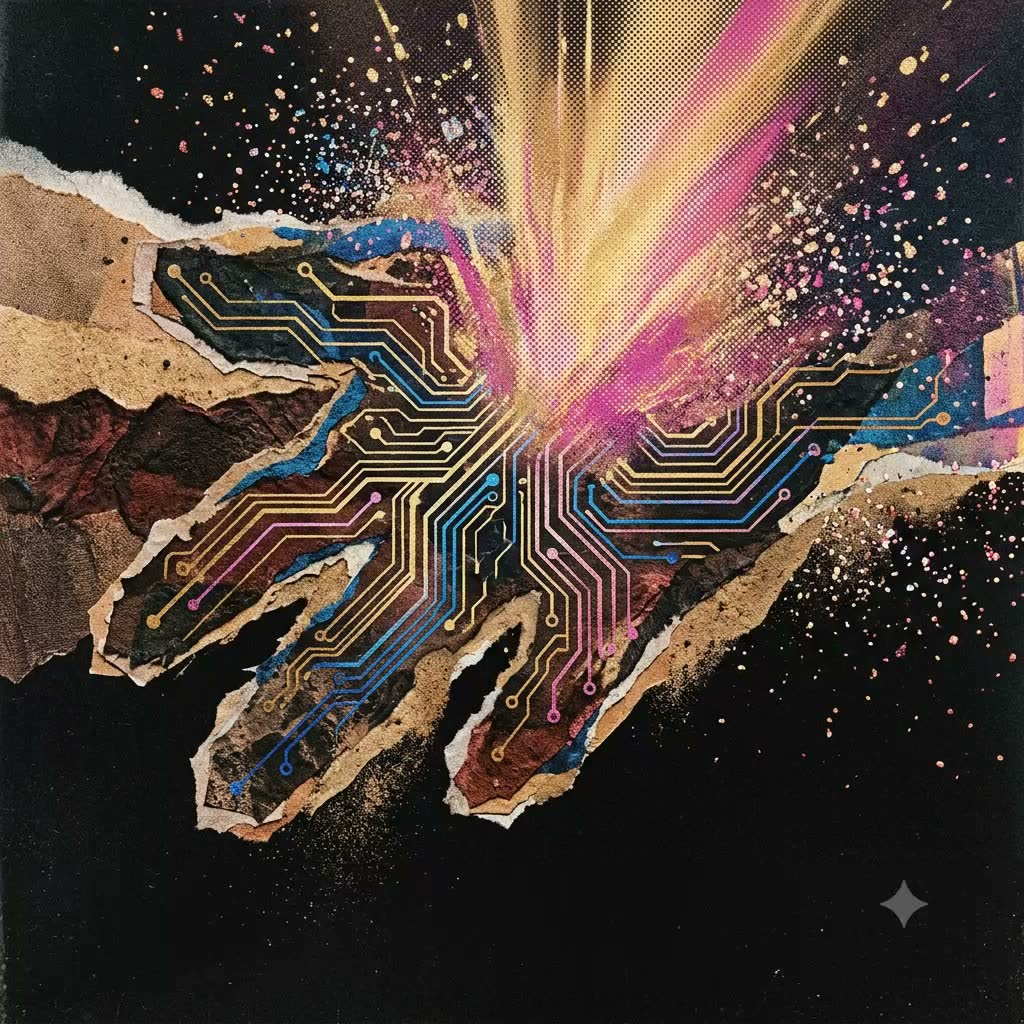
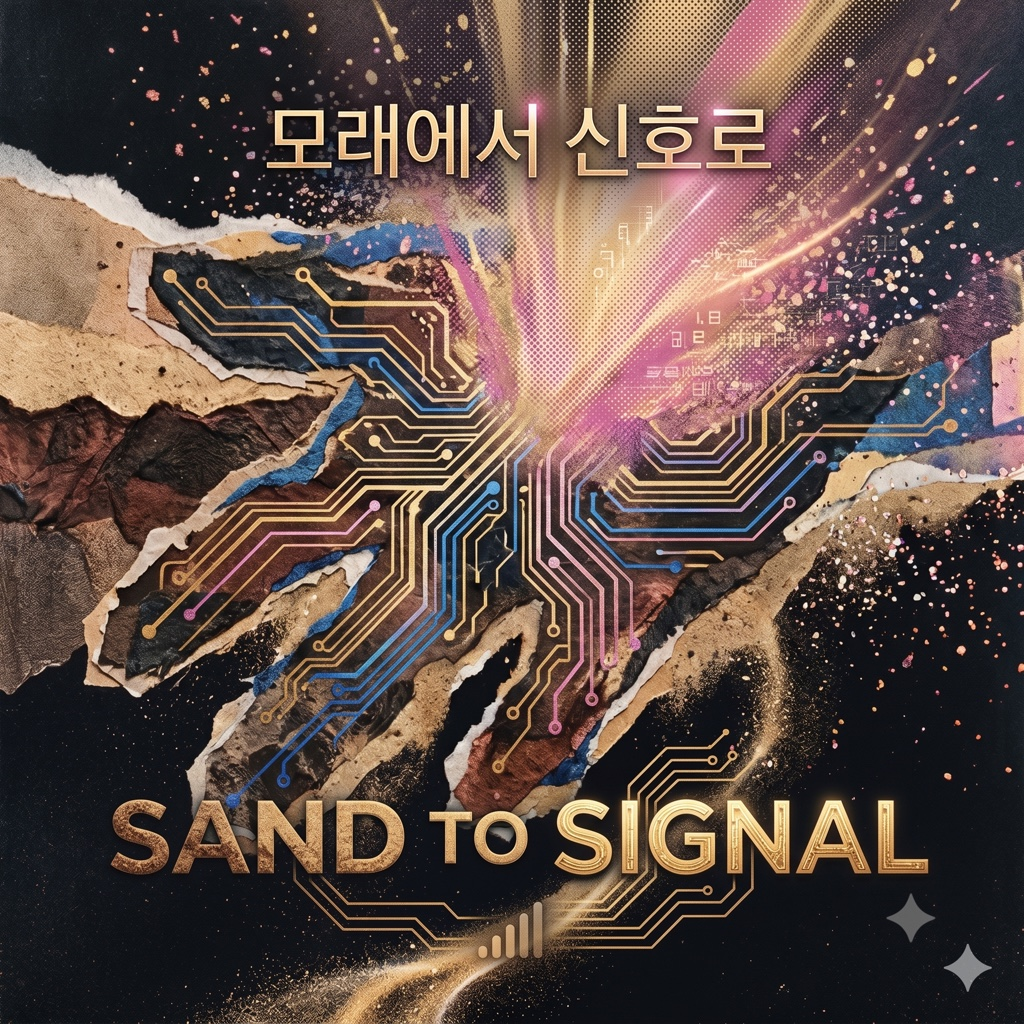
Use custom Sand to Signal artwork for The Future in My Palm cover.
Refreshes copyright cover fingerprint after replacing the video frame extract.

diff --git a/data/copyright-registry.ts b/data/copyright-registry.ts
@@ -410,7 +410,7 @@ export const songCopyrightRegistry: SongCopyrightRecord[] = [
     "title": "The Future in My Palm",
     "workType": "family-original",
     "createdDate": "2026-06-23",
-    "registeredAt": "2026-06-23T20:18:13.805Z",
+    "registeredAt": "2026-06-23T20:21:24.087Z",
     "primaryArtistSlug": "tio-chien",
     "subjectMemberSlugs": [
       "tio-chien"
@@ -425,6 +425,6 @@ export const songCopyrightRegistry: SongCopyrightRecord[] = [
     "audioAssetPath": "/assets/tio-chien/the-future-in-my-palm.mp3",
     "coverAssetPath": "/assets/tio-chien/the-future-in-my-palm.jpg",
[3 lines of base64/hex data omitted]
   }
 ];